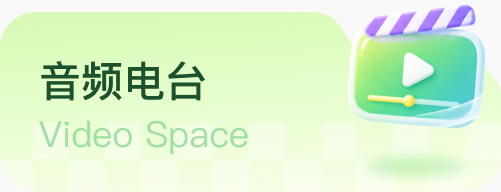
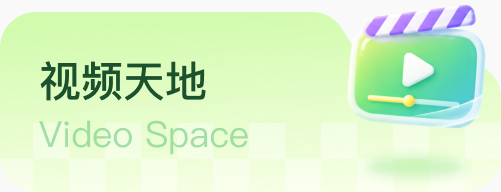
update: SayABC V1 按最新设计稿更新课程封面/无下次课/学习数据卡高度
- 课程封面：每门课一张新封面（主修课 L0-L4/L5-L7、专项课、AI课 4 张），专项课标签改蓝、AI课只显示 AI 标签
- 无下次课：343×194 白卡 + 日历插画 + 「还没有安排下一次课」+ 去约课
- 学习数据卡 162→140；首页顺序改为 下一次课 → 学习数据
- 修正「视频天地」资源卡误用「音频电台」图
- README 同步

Changed region(s): [[0.2395, 0.3125, 0.4192, 0.5312], [0.0599, 0.3125, 0.1796, 0.5312]]

diff --git a/sayabc-v1/index.html b/sayabc-v1/index.html
@@ -564,32 +564,32 @@
   .cc-kid-pill .cc-caret{position:relative;width:5.7px;height:2.75px;flex-shrink:0;}
   .cc-kid-pill .cc-caret img{position:absolute;left:-.55px;top:-.55px;width:6.8px;height:3.85px;max-width:none;}
   /* 学习数据 — Figma 134:4823（343×162；单孩/多孩同款，多孩横滑并露出下一张） */
-  .study-sec-title{font-size:18px;font-weight:600;color:#2f3338;line-height:25px;letter-spacing:-.18px;margin-top:16px;margin-bottom:12px;position:relative;z-index:2;}
+  .study-sec-title{font-size:18px;font-weight:600;color:#2f3338;line-height:25px;letter-spacing:-.18px;margin-top:17px;margin-bottom:12px;position:relative;z-index:2;}
   .study-scroll{display:flex;gap:8px;overflow-x:auto;scroll-snap-type:x mandatory;margin-right:-16px;padding-right:16px;scrollbar-width:none;-webkit-overflow-scrolling:touch;position:relative;z-index:2;}
   .study-scroll::-webkit-scrollbar{display:none;}
-  .study-v1{flex:0 0 343px;height:162px;border-radius:16px;background:#fff;position:relative;overflow:hidden;scroll-snap-align:start;}
-  .study-head{position:absolute;left:0;top:0;width:343px;height:41px;background:linear-gradient(89.46deg,#3ecf80 5.27%,#7cdd90 69.76%);}
-  .study-ava{position:absolute;left:14px;top:9px;width:24px;height:24px;border-radius:24px;border:2px solid #f7f7f8;background:#fff;overflow:hidden;}
+  .study-v1{flex:0 0 343px;height:140px;border-radius:16px;background:#fff;position:relative;overflow:hidden;scroll-snap-align:start;}
+  .study-head{position:absolute;left:0;top:0;width:343px;height:38px;background:linear-gradient(89.41deg,#3ecf80 5.27%,#7cdd90 69.76%);}
+  .study-ava{position:absolute;left:14px;top:7px;width:24px;height:24px;border-radius:24px;border:2px solid #f7f7f8;background:#fff;overflow:hidden;}
   .study-ava img{width:100%;height:100%;object-fit:cover;display:block;}
-  .study-name{position:absolute;left:49px;top:12px;font-size:14px;line-height:1.2;color:#fff;letter-spacing:-.18px;white-space:nowrap;}
-  .study-link{position:absolute;right:12px;top:12px;display:flex;align-items:center;gap:4px;font-size:12px;font-weight:500;line-height:17px;color:#fff;letter-spacing:-.18px;cursor:pointer;white-space:nowrap;}
+  .study-name{position:absolute;left:49px;top:10px;font-weight:600;font-size:14px;line-height:1.2;color:#fff;letter-spacing:-.18px;white-space:nowrap;}
+  .study-link{position:absolute;right:12px;top:10px;display:flex;align-items:center;gap:4px;font-size:12px;font-weight:500;line-height:17px;color:#fff;letter-spacing:-.18px;cursor:pointer;white-space:nowrap;}
   .study-link img{width:12px;height:12px;display:block;}
-  .study-panels{position:absolute;left:12px;right:12px;bottom:13px;height:96px;display:flex;gap:12px;}
-  .stats-panel,.level-panel{height:96px;background:rgba(61,196,113,.06);border-radius:12px;position:relative;}
-  .stats-panel{width:209px;}
-  .stat-blk{position:absolute;top:24px;width:100px;text-align:center;}
-  .stat-blk:first-child{left:0;}
-  .stat-blk:nth-child(3){left:103px;}
+  .study-panels{position:absolute;left:8px;right:8px;bottom:8px;height:86px;display:flex;gap:8px;}
+  .stats-panel,.level-panel{height:86px;background:rgba(61,196,113,.06);border-radius:12px;position:relative;}
+  .stats-panel{width:217px;}
+  .stat-blk{position:absolute;top:19px;width:100px;text-align:center;}
+  .stat-blk:first-child{left:3px;}
+  .stat-blk:nth-child(3){left:107px;}
   .stat-val{height:24px;line-height:24px;font-family:"JiangChengYuanTi","PingFang SC",sans-serif;font-size:24px;font-weight:600;color:#2f3338;letter-spacing:-.18px;white-space:nowrap;}
   .stat-val small{font-family:"PingFang SC",sans-serif;font-size:12px;font-weight:400;margin-left:4px;}
   .stat-lb{margin-top:16px;font-size:12px;line-height:17px;color:rgba(47,51,56,.7);letter-spacing:-.18px;}
-  .stat-div{position:absolute;left:105px;top:25px;width:0;height:46px;border-left:.5px solid rgba(188,191,204,.35);}
-  .level-panel{width:98px;}
-  .ring-v1{position:absolute;left:26.5px;top:13.5px;width:45px;height:45px;}
+  .stat-div{position:absolute;left:109px;top:20px;width:0;height:46px;border-left:.5px solid rgba(188,191,204,.35);}
+  .level-panel{width:102px;}
+  .ring-v1{position:absolute;left:26.5px;top:7.5px;width:45px;height:45px;}
   .ring-v1 svg{display:block;width:45px;height:45px;}
   .ring-v1 span{position:absolute;inset:0;display:flex;align-items:center;justify-content:center;font-size:14.5px;font-weight:600;color:#060607;letter-spacing:-.17px;}
   .ring-v1 span small{font-size:10.9px;font-weight:600;}
-  .ring-lv{position:absolute;left:0;right:0;top:64px;text-align:center;font-size:12px;line-height:17px;color:rgba(47,51,56,.7);letter-spacing:-.18px;white-space:nowrap;}
+  .ring-lv{position:absolute;left:0;right:0;top:59px;text-align:center;font-size:12px;line-height:17px;color:rgba(47,51,56,.7);letter-spacing:-.18px;white-space:nowrap;}
 
   /* 区块标题 */
   .sec-row{display:flex;align-items:center;justify-content:space-between;height:25px;}
@@ -598,7 +598,8 @@
   .sec-link img{width:5.5px;height:11.5px;margin:-.75px;display:block;}
 
   /* 下一次课 — Figma 142:509（343×233；单孩/多孩同款） */
-  #nextSec{margin-top:17px;position:relative;z-index:2;}
+  #nextSec{margin-top:16px;position:relative;z-index:2;}
+  #nextSec.is-empty + #homeStudy .study-sec-title{margin-top:24px;}
   #nextSec .sec-row + #nextBox{margin-top:12px;}
   .next-v1{height:233px;border-radius:16px;position:relative;overflow:hidden;background:linear-gradient(166.36deg,#46d687 13.16%,#42cc5f 52.34%);cursor:pointer;}
   .next-v1::after{content:'';position:absolute;inset:0;border-radius:inherit;box-shadow:inset 0 2px 10.4px rgba(255,255,255,.49);pointer-events:none;z-index:3;}
@@ -629,9 +630,13 @@
   .nx-segs i.on{background:#46d687;}
   .nx-go{position:absolute;left:291px;top:195px;width:36px;height:24px;border-radius:37px;border:none;background:linear-gradient(to bottom,#42cc5f,#46d687);display:flex;align-items:center;justify-content:center;filter:drop-shadow(0 2px 1.5px rgba(66,204,95,.19));cursor:pointer;z-index:2;padding:0;}
   .nx-go img{width:14.5px;height:10px;display:block;}
-  .next-empty .nx-empty-t{position:absolute;left:8px;top:62px;font-size:18px;font-weight:600;color:#2f3338;}
-  .next-empty .nx-empty-s{position:absolute;left:8px;top:92px;font-size:13px;color:rgba(47,51,56,.6);}
-  .next-empty .nx-btn{position:absolute;left:243px;top:176px;height:33px;padding:0 16px;border:none;border-radius:44px;background:linear-gradient(to bottom,#42cc5f,#46d687);color:#fff;font-size:14px;font-weight:600;cursor:pointer;}
+  /* 无下次课 — Figma 139:5682（343×194 白卡 + 插画 + 引导按钮） */
+  .next-v1.next-empty{height:194px;background:#fff;}
+  .next-v1.next-empty::after{display:none;}
+  .nx-empty-shadow{position:absolute;left:130.3px;top:83.3px;width:81.4px;height:15.4px;display:block;}
+  .nx-empty-img{position:absolute;left:117px;top:4px;width:108px;height:86.5px;display:block;}
+  .nx-empty-t{position:absolute;left:51px;top:113px;width:240px;text-align:center;font-size:16px;font-weight:600;line-height:14px;color:#2f3338;}
+  .next-empty .nx-btn{position:absolute;left:118px;top:139px;height:33px;padding:0 32px;border:none;border-radius:44px;background:linear-gradient(to bottom,#42cc5f,#46d687);color:#fff;font-size:14px;font-weight:800;line-height:1.2;white-space:nowrap;filter:drop-shadow(0 3px 2px rgba(61,205,101,.3));cursor:pointer;}
 
   /* 资源 tabs + 卡片 */
   #resSec{margin-top:24px;position:relative;z-index:2;}
@@ -649,7 +654,7 @@
   .mkt2-sm{width:167px;height:65px;border-radius:12px;background-repeat:no-repeat;background-position:center;background-size:167px 65px;cursor:pointer;}
 
   /* 课程中心 */
-  #ccSec{margin-top:13px;position:relative;z-index:2;}
+  #ccSec{margin-top:14px;position:relative;z-index:2;}
   .cc-tabs-v1{margin-top:12px;height:40px;background:#fff;border-radius:12px;display:flex;align-items:center;padding:0 4px;overflow:hidden;}
   .cc-tabs-v1 .cc-tab{flex:1;display:flex;align-items:center;justify-content:center;height:40px;padding:0;font-size:14px;font-weight:500;line-height:1.2;color:#2f3338;background:transparent;border-radius:8px;box-shadow:none;white-space:nowrap;}
   .cc-tabs-v1 .cc-tab.on{height:33px;color:#14bf61;font-weight:600;background:rgba(49,193,79,.08);box-shadow:none;}
@@ -661,7 +666,7 @@
   .cc-card-v1.short{height:118px;}
   .cc-card-v1 .thumb{position:absolute;left:12px;top:12px;background:url('assets/course-cover.png') center/cover;border-radius:10px;overflow:hidden;}
   .cc-card-v1 .thumb>img{width:100%;height:100%;object-fit:cover;display:block;border-radius:inherit;}
-  .cc-card-v1.tall .thumb{width:112px;height:84px;}
+  .cc-card-v1.tall .thumb{width:112px;height:84.9px;border-radius:10.108px;}
   .cc-card-v1.short .thumb{width:124px;height:94px;border-radius:11.19px;}
   /* AI 课：Figma 139:5750 —— 与未约课同为 343×118 横版卡（封面 124×94 / 4:3），上次学习日期在标题下 */
   .cc-card-v1 .info{position:absolute;left:136px;top:17px;width:191px;}
@@ -672,7 +677,7 @@
   .cc-tag-v1{height:18px;padding:2px 4px;border-radius:2px;font-size:12px;font-weight:500;display:flex;align-items:center;}
   .cc-tag-v1.main{background:rgba(204,246,213,.6);color:#1dbb3f;}
   .cc-tag-v1.dur{background:rgba(255,198,66,.2);color:#be4e08;}
-  .cc-tag-v1.spec{background:rgba(255,198,66,.2);color:#be4e08;}
+  .cc-tag-v1.spec{background:rgba(29,180,255,.12);color:#1dacff;}
   .cc-tag-v1.ai{background:rgba(224,208,255,.34);color:#8d50ff;}
   .cc-name-v1{margin-top:12px;font-size:18px;font-weight:600;color:#000;line-height:1.2;white-space:nowrap;overflow:hidden;text-overflow:ellipsis;}
   .cc-sub-v1{margin-top:4px;font-size:13px;font-weight:500;color:rgba(47,51,56,.69);line-height:1.4;white-space:nowrap;overflow:hidden;text-overflow:ellipsis;}
@@ -734,7 +739,7 @@
 </head>
 <body>
   <div class="page-title">SayABC 家长端 · 新版信息架构原型</div>
-  <div class="page-sub">版本一：Banner 置顶（Banner → 学习数据 → 下一次课 → 学习资源 → 课程中心）· 已付费 44:960 / 游客 87:2135 双版对齐 · 单孩/多孩 · 课表日历 · 约课三模式</div>
+  <div class="page-sub">版本一：Banner 置顶（Banner → 下一次课 → 学习数据 → 学习资源 → 课程中心）· 已付费 44:960 / 游客 87:2135 双版对齐 · 单孩/多孩 · 课表日历 · 约课三模式</div>
 
   <div class="demo-bar">
     <div class="demo-hd">演示控制<em>点击切换</em></div>
@@ -792,14 +797,14 @@
           <img src="assets/banner-share-v1.png" alt="周周分享得赠课">
         </div>
 
-        <!-- 学习数据（付费 / 未付费已约） -->
-        <div id="homeStudy"></div>
-
         <!-- 下一次课（付费 / 未付费已约） -->
         <div id="nextSec">
           <div class="sec-row"><div class="sec-h">下一次课</div><span class="sec-link" onclick="switchTab('sched')">查看课表<img src="assets/sec-arrow.svg" alt=""></span></div>
           <div id="nextBox"></div>
         </div>
+
+        <!-- 学习数据（付费 / 未付费已约） -->
+        <div id="homeStudy"></div>
 
         <!-- 学习资源 / 活动福利 -->
         <div id="resSec">
@@ -1134,16 +1139,18 @@
 
   // 下一次课 · 无课态：说明现状 + 一句激励 + 唯一行动入口（不展示约课计划等衍生信息，避免抢戏）
   function nextEmptyHTML(){
+    document.getElementById('nextSec').classList.add('is-empty');
     return `<div class="next-v1 next-empty" onclick="switchTab('book')">
-        <div class="nx-panel"></div>
-        <div class="nx-empty-t">还没有安排下一次课</div>
-        <div class="nx-empty-s">选个时间，和外教开启下一节吧</div>
-        <button class="nx-btn" onclick="event.stopPropagation();switchTab('book')">立即约课</button>
+        <img class="nx-empty-shadow" src="assets/next-empty-shadow.svg" alt="">
+        <img class="nx-empty-img" src="assets/next-empty.png" alt="">
+        <div class="nx-empty-t">还没有安排下一次课🎈</div>
+        <button class="nx-btn" onclick="event.stopPropagation();switchTab('book')">去约课</button>
       </div>`;
   }
 
   function renderNext(){
     const box = document.getElementById('nextBox');
+    document.getElementById('nextSec').classList.remove('is-empty');
     if(!showCenter()){ box.innerHTML = ''; return; }              // 游客 / 未付费未约：不展示下一次课
     if(NEXT.mode === 'none'){ box.innerHTML = nextEmptyHTML(); return; }
     // 下一次课：始终取所有孩子中最近一节
@@ -1196,24 +1203,24 @@
       avatar: 'assets/kid-gghj.png',
       stats: { days: 3, min: 75, level: 'Level 0', pct: 19, lvNext: 'LV1' },   // 本周学习天数 / 时长(分) / 当前级别 / 级别进度% / 下一级别
       courses: [
-        { id:'m1', type:'main', name:'原版英语课（L0–L4，25分钟/课）', short:'原版英语课（L0–L4）', emoji:'🧑🏫',
+        { id:'m1', type:'main', name:'原版英语课（L0–L4，25分钟/课）', cover:'assets/cover-main-l0.png', short:'原版英语课（L0–L4）', emoji:'🧑🏫',
           bg:'linear-gradient(135deg,#d9f6ff,#c2ecff)', tags:[['主修课','tag-main']],
           status:'start', cfg:1, lastStudy:'2026/11/08', lastStudyTS:'2026-11-08 20:30', nextId:'m2', bookable:12,
           progress:{ line:'Level 0 · Unit 2 · Lesson 3', level:'Level 0', next:'Level 1', percent:19, remain:44 } },
-        { id:'m2', type:'main', name:'原版英语课（L5–L7，50分钟/课）', short:'原版英语课（L5–L7）', emoji:'📖',
+        { id:'m2', type:'main', name:'原版英语课（L5–L7，50分钟/课）', cover:'assets/cover-main-l5.png', short:'原版英语课（L5–L7）', emoji:'📖',
           bg:'linear-gradient(135deg,#fff3d6,#ffe6b3)', tags:[['主修课','tag-main']],
           status:'not_start', cfg:2, lastStudy:null, progress:null },
-        { id:'s1', type:'spec', name:'自然拼读强化班（L1–L3）', short:'自然拼读强化班', emoji:'🔤',
+        { id:'s1', type:'spec', name:'自然拼读强化班（L1–L3）', cover:'assets/cover-spec-phonics.png', short:'自然拼读强化班', emoji:'🔤',
           bg:'linear-gradient(135deg,#ffe9f3,#ffd0e6)', tags:[['专项课','tag-spec']],
           status:'start', cfg:3, lastStudy:'2026/11/05', lastStudyTS:'2026-11-05 15:00', bookable:6,
           progress:{ line:'Level 1 · Unit 1 · Lesson 3', level:'Level 1', next:'Level 2', percent:11, remain:16 } },
-        { id:'a1', type:'ai', name:'金牌阅读课', emoji:'🥇', bg:'linear-gradient(135deg,#fff4d6,#ffe3a8)', cover:'assets/course-cover-ai-reading.png',
+        { id:'a1', type:'ai', name:'金牌阅读课', cover:'assets/cover-ai-reading.png', emoji:'🥇', bg:'linear-gradient(135deg,#fff4d6,#ffe3a8)',
           tags:[['AI课','tag-ai']], status:'start', cfg:4, lastStudy:'2026/11/08', lastStudyTS:'2026-11-08 10:20', perm:true },
-        { id:'a2', type:'ai', name:'地道美语', emoji:'🗣', bg:'linear-gradient(135deg,#e7e9ff,#d3d8ff)', cover:'assets/course-cover-ai-english.png',
+        { id:'a2', type:'ai', name:'地道美语', cover:'assets/cover-ai-english.png', emoji:'🗣', bg:'linear-gradient(135deg,#e7e9ff,#d3d8ff)',
           tags:[['AI课','tag-ai']], status:'start', cfg:5, lastStudy:'2026/11/06', lastStudyTS:'2026-11-06 21:05', perm:true },
-        { id:'a3', type:'ai', name:'小学英语必考句型', emoji:'🦉', bg:'linear-gradient(135deg,#dff3e7,#c9ecd9)', cover:'assets/course-cover-ai-sentence.png',
+        { id:'a3', type:'ai', name:'小学英语必考句型', cover:'assets/cover-ai-sentence.png', emoji:'🦉', bg:'linear-gradient(135deg,#dff3e7,#c9ecd9)',
           tags:[['AI课','tag-ai']], status:'start', cfg:6, lastStudy:null, perm:true },
-        { id:'a4', type:'ai', name:'原版阅读指导课', emoji:'📚', bg:'linear-gradient(135deg,#fde8e0,#fbd5c6)',
+        { id:'a4', type:'ai', name:'原版阅读指导课', cover:'assets/cover-ai-guide.png', emoji:'📚', bg:'linear-gradient(135deg,#fde8e0,#fbd5c6)',
           tags:[['AI课','tag-ai']], status:'start', cfg:7, lastStudy:'2026/11/02', lastStudyTS:'2026-11-02 09:40', perm:false }
       ]
     },
@@ -1223,14 +1230,14 @@
       avatar: 'assets/kid-mia.png',
       stats: { days: 2, min: 50, level: 'Level 2', pct: 41, lvNext: 'LV3' },
       courses: [
-        { id:'mm1', type:'main', name:'原版英语课（L0–L4，25分钟/课）', short:'原版英语课（L0–L4）', emoji:'🧑🏫',
+        { id:'mm1', type:'main', name:'原版英语课（L0–L4，25分钟/课）', cover:'assets/cover-main-l0.png', short:'原版英语课（L0–L4）', emoji:'🧑🏫',
           bg:'linear-gradient(135deg,#d9f6ff,#c2ecff)', tags:[['主修课','tag-main']],
           status:'start', cfg:1, lastStudy:'2026/11/07', lastStudyTS:'2026-11-07 16:00', bookable:8,
           progress:{ line:'Level 2 · Unit 3 · Lesson 2', level:'Level 2', next:'Level 3', percent:41, remain:26 } },
-        { id:'mm2', type:'spec', name:'自然拼读强化班（L1–L3）', short:'自然拼读强化班', emoji:'🔤',
+        { id:'mm2', type:'spec', name:'自然拼读强化班（L1–L3）', cover:'assets/cover-spec-phonics.png', short:'自然拼读强化班', emoji:'🔤',
           bg:'linear-gradient(135deg,#ffe9f3,#ffd0e6)', tags:[['专项课','tag-spec']],
           status:'not_start', cfg:2, lastStudy:null, progress:null },
-        { id:'ma1', type:'ai', name:'金牌阅读课', emoji:'🥇', bg:'linear-gradient(135deg,#fff4d6,#ffe3a8)', cover:'assets/course-cover-ai-reading.png',
+        { id:'ma1', type:'ai', name:'金牌阅读课', cover:'assets/cover-ai-reading.png', emoji:'🥇', bg:'linear-gradient(135deg,#fff4d6,#ffe3a8)',
           tags:[['AI课','tag-ai']], status:'start', cfg:3, lastStudy:'2026/11/06', lastStudyTS:'2026-11-06 18:30', perm:true }
       ]
     }
@@ -1332,7 +1339,8 @@
     const cleanName = (c.short || c.name).replace(/（/g, ' ').replace(/）/g, '');
     const pct = p ? Math.max(0, Math.min(100, p.percent || 0)) : 0;
     const sub = tall ? p.line : '';
-    const tags = `<div class="cc-tags-v1"><span class="cc-tag-v1 ${tagClass}">${typeName}</span><span class="cc-tag-v1 dur">${dur}分钟/节</span></div>`;
+    const durTag = c.type === 'ai' ? '' : `<span class="cc-tag-v1 dur">${dur}分钟/节</span>`;   // AI 课无时长标签（Figma 70:541）
+    const tags = `<div class="cc-tags-v1"><span class="cc-tag-v1 ${tagClass}">${typeName}</span>${durTag}</div>`;
     const thumb = c.cover ? `<div class="thumb"><img src="${c.cover}" alt="" loading="lazy"></div>` : `<div class="thumb"></div>`;
     if(tall){
       return `<div class="cc-card-v1 tall${withChild ? ' multi' : ''}" onclick="openCourse('${c.id}')">

diff --git a/sayabc-v1/README.md b/sayabc-v1/README.md
@@ -12,7 +12,7 @@
 
 **已付费 / 未付费已约**
 
-头部装饰（200px）→ Banner（343×149）→ 学习数据（343×168）→ 下一次课（标题 + 343×242 渐变卡）→ 学习资源（胶囊 Tab + 2×2 卡片）→ 课程中心（最近学习 / 主修课 / 专项课 / AI课 + 219/118 课程卡）→ 到底啦~
+头部装饰（200px）→ Banner（343×149）→ 下一次课（标题 + 343×233 渐变卡；无下次课时为 343×194 白卡 + 插画）→ 学习数据（343×140）→ 学习资源（胶囊 Tab + 2×2 卡片）→ 课程中心（最近学习 / 主修课 / 专项课 / AI课 + 219/118 课程卡，每门课一张封面）→ 到底啦~
 
 **游客 / 未付费未约**
 
